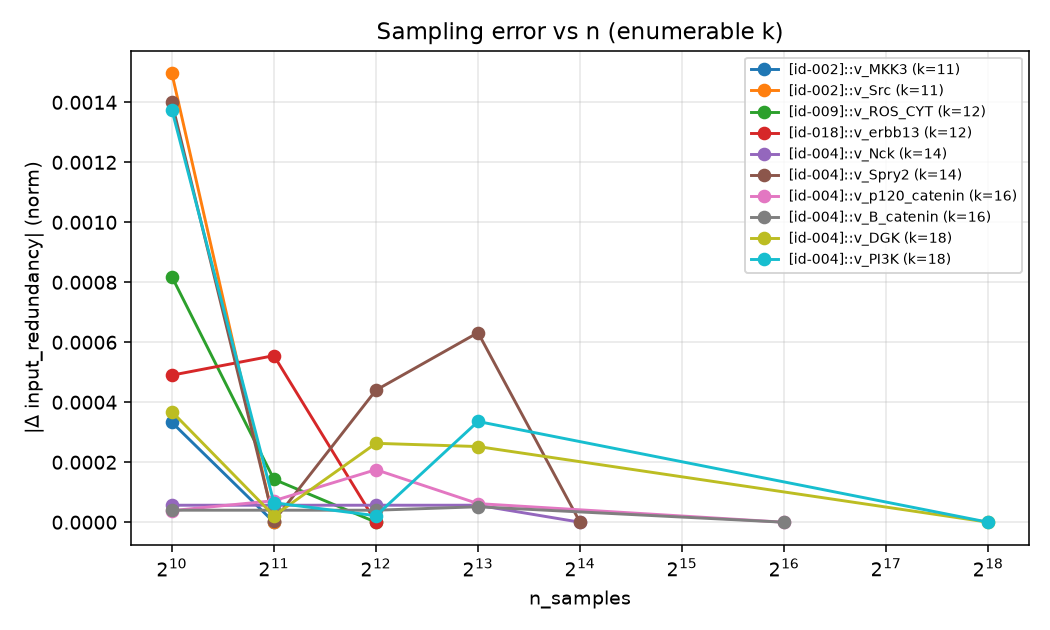
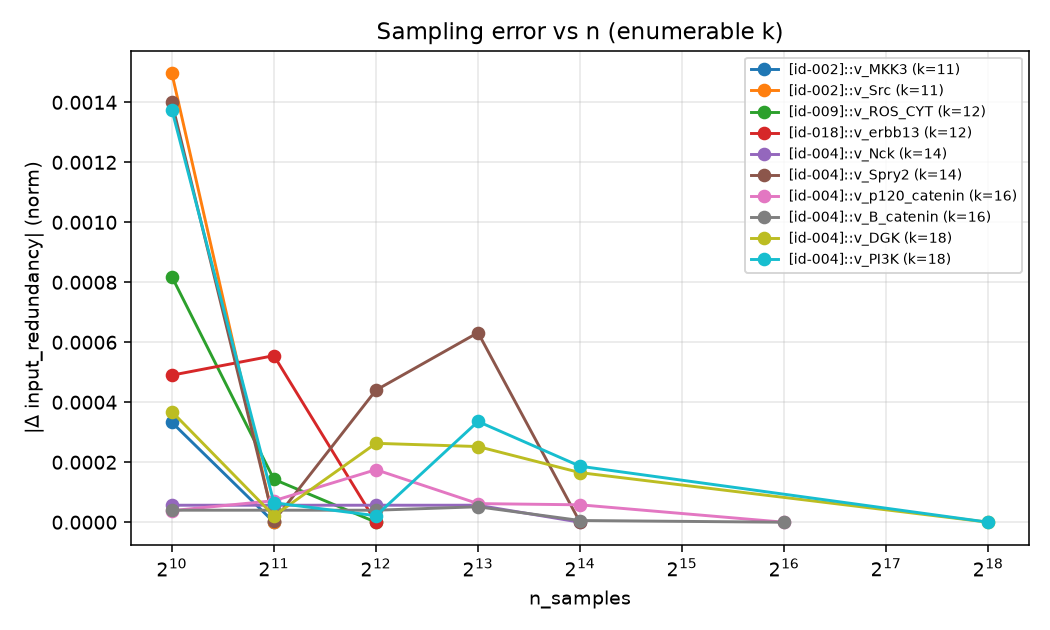
More models for checking sampling method

Changed region(s): [[0.4571, 0.6635, 0.8838, 0.8444], [0.8838, 0.8143, 0.9448, 0.8444]]

diff --git a/dev/high_k/notebooks/bbm_high_k_redundancy_sampling.py b/dev/high_k/notebooks/bbm_high_k_redundancy_sampling.py
@@ -63,13 +63,13 @@ from cana.primes.cascade import on_off_primes_from_expression  # noqa: E402
 # ---------------------------------------------------------------------------
 
 # "starter" | "all_from_log"
-MODE = "starter"
+MODE = "all_from_log"
 
 TIMEOUT_S = 10.0
 MIN_K_EXACT = 11  # k > 10 so n=2**10 is a proper subsample
 MAX_K_EXACT = 18  # try exact pi_coverage up to here (≤ MAX_DENSE_LUT_K)
 MIN_N_SAMPLES = 2**10
-N_SAMPLES_GRID: Tuple[int, ...] = (2**10, 2**11, 2**12, 2**13)
+N_SAMPLES_GRID: Tuple[int, ...] = (2**10, 2**11, 2**12, 2**13, 2**14)
 # Single n for exact-vs-sample timing (most accurate grid size).
 N_TIME_COMPARE = max(N_SAMPLES_GRID)
 N_BOOT = 1000
